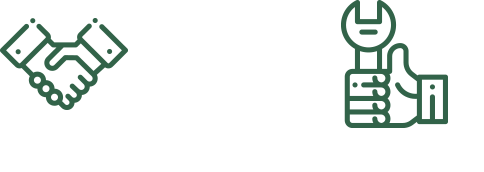
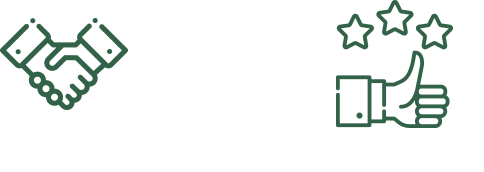
Cambios

Changed region(s): [[0.6818, 0.0, 0.9607, 0.7558]]

diff --git a/style.less b/style.less
@@ -276,7 +276,7 @@ div.center{
 #mision {
     .flex {
     
-    min-height: 500px;
+    min-height: 640px;
     align-items: center;
     li{
         padding-right: 70px;
@@ -295,9 +295,22 @@ div.center{
 }
 
 #mision .fondo {
-    background: url(./img/home/afiliate.jpg) no-repeat center top;
+    background: url(./img/home/afiliate.jpg) no-repeat center;
     background-size: cover;
     min-height: 650px;
+}
+
+#vision{
+    min-height: 640px;
+    
+    img#sello{
+        padding-top: 22px;
+        padding-left: 18px;
+    }
+    
+    .pad-top{
+        padding-top: 100px;
+    }
 }
 
 #vision .flex {
@@ -319,7 +332,7 @@ div.center{
     float: left;
     padding-left: 50px;
     li{
-        line-height: 240%;
+        line-height: 120%;
         padding: 0;
         
     }
@@ -374,7 +387,7 @@ div.center{
     min-height: 500px;
     #miss-veg{
         background: url(./img/home/miss-veggies.png) no-repeat center;
-        background-size: 89%;
+        background-size: cover;
         width: 40%;
     }
     .columna{
@@ -996,7 +1009,7 @@ div.center{
 }
 
 #vision .flex {
-    min-height: 300px;
+    min-height: 400px;
     align-items: center;
     li{
         //padding-left: 50px;
@@ -1021,7 +1034,10 @@ div.center{
     }
 }
 
-
+    #vision{
+        min-height: 800px;
+    }
+    
 #vision .fondo {
     background: url(./img/home/birrete.jpg) no-repeat center top;
     background-size: cover;

diff --git a/style.css b/style.css
@@ -211,7 +211,7 @@ div.center {
   display: block;
 }
 #mision .flex {
-  min-height: 500px;
+  min-height: 640px;
   align-items: center;
 }
 #mision .flex li {
@@ -227,9 +227,19 @@ div.center {
   color: #9c9aa0;
 }
 #mision .fondo {
-  background: url(img/home/afiliate.jpg) no-repeat center top;
+  background: url(img/home/afiliate.jpg) no-repeat center;
   background-size: cover;
   min-height: 650px;
+}
+#vision {
+  min-height: 640px;
+}
+#vision img#sello {
+  padding-top: 22px;
+  padding-left: 18px;
+}
+#vision .pad-top {
+  padding-top: 100px;
 }
 #vision .flex {
   min-height: 500px;
@@ -241,7 +251,7 @@ div.center {
   padding-left: 50px;
 }
 #vision .contenido li {
-  line-height: 240%;
+  line-height: 120%;
   padding: 0;
 }
 #vision .contenido ul {
@@ -289,7 +299,7 @@ div.center {
 }
 #descuento #miss-veg {
   background: url(img/home/miss-veggies.png) no-repeat center;
-  background-size: 89%;
+  background-size: cover;
   width: 40%;
 }
 #descuento .columna {
@@ -773,7 +783,7 @@ div.center {
     min-height: 200px;
   }
   #vision .flex {
-    min-height: 300px;
+    min-height: 400px;
     align-items: center;
   }
   #vision .contenido {
@@ -787,6 +797,9 @@ div.center {
   }
   #vision .contenido ul {
     padding-bottom: 10px;
+  }
+  #vision {
+    min-height: 800px;
   }
   #vision .fondo {
     background: url(img/home/birrete.jpg) no-repeat center top;

diff --git a/templates/quienes-somos.php b/templates/quienes-somos.php
@@ -16,8 +16,9 @@
                         <p>Somos la Asociación de Health Coaches Unidos de México (AHCUM),  acreditamos y reúnimos a los profesionales de esta área con el objetivo de  comunicar con claridad las actividades y funciones de un health coach y su relación de apoyo con otras áreas: Médicos, Nutriólogos,  Psicólogos,  entre otros.</p>
                         <p>
                         Constituida como  ORG en enero de 2018,  la AHCUM pretende ampliar el alcance, reconocimiento y  awareness (conciencia)  de la profesión, para brindar a sus asociados mejores oportunidades laborales y finalmente inspirar el cambio de hábitos de estilo de vida de los mexicanos. </p>
-                        <p>Somos un grupo de entrenadores de IIN Health entusiastas, comprometidos y profesionales que persiguen <b>un sueño común</b>:</p>
-                        <p class="blue">"Ayudar a las personas a transformar sus vidas, inspirar cambios y expandir la conciencia"</p>
+                        
+                        <p>Somos un grupo de coaches de salud integral de INN Health entusiastas, comprometidos y profesionales que persiguen <b>un sueño común</b>:</p>
+                        <p class="blue">"Ayudar a las personas a transformar sus vidas, inspirar cambio de hábitos y expandir la conciencia"</p>
                         
                     </div>
                 </div>
@@ -30,7 +31,7 @@
                     <div class="columna">
                        <div class="contenido">
                           <h2>Misión</h2>
-                        <p>Inspirar y contribuir a un México más saludable y feliz. Nuestra comunidad de Coaches de Salud se compromete a elevar el bienestar general de los mexicanos mediante el fomento de cambios en los hábitos de vida. También nos dedicamos a apoyar el desarrollo profesional de los asociados y trabajar en el posicionamiento de la práctica del Coaching de Salud como un elemento clave para mantener una salud integral.</p>
+                        <p>Inspirar y contribuir a un México más saludable y feliz. Nuestra comunidad de Health Coaches se compromete a elevar el bienestar general de los mexicanos mediante el fomento de cambios en los hábitos de vida. También nos dedicamos a apoyar el desarrollo profesional de los asociados y trabajar en el posicionamiento de la práctica del Coaching de Salud como un elemento clave para mantener una salud integral.</p>
                         
                         <h2>Visión</h2>
                         <p>Ser la principal comunidad de Health coaches en México responsable de acreditar la buena práctica del Coaching de Salud, logrando así el reconocimiento de la sociedad y los profesionales de la salud como aliados en materia de prevención y bienestar en nuestro país.</p>

diff --git a/templates/home.php b/templates/home.php
@@ -19,7 +19,7 @@
                         siguientes beneficios:</h2>
                         <ul>
                             <li>
-                                Recibirás tu distintivo oficial de miembro avalado en su calidad de práctica.
+                                Recibirás tu distintivo oficial de miembro avalado en su calidad de práctica, el cual podrás publicarlo en tus redes sociales y sitio web.
                             </li>
                             <li>
                                 Tendrás un perfil en el directorio de Health Coaches avalados y podrás publicar los enlaces de tus redes sociales.
@@ -53,13 +53,19 @@
                           <h2>Requisitos para<br>
                             afiliarte:</h2>
                         <ul>
-                            <li>Ser graduado de INN </li>
-                            <li>Certificado de Health Coach</li>
+                            <li>Ser Health Coach Certificado por INN </li>
                             <li>Validar tu certificado</li>
+                            <li>Tener activo tu badge INN</li>
+                            <img id="sello" src="<?php echo get_stylesheet_directory_uri(); ?>/img/home/int-nut-validar.png" alt="Integrative nutrition">
+                            
                         </ul>
                         
                         <a href="#" class="btn-purple">¿CÓMO VALIDAR?</a>
+                        
+                        <p class="pad-top">Asociación avalada por INN</p>
+                        <a href="https://www.integrativenutrition.com/"><img src="<?php echo get_stylesheet_directory_uri(); ?>/img/home/IIN-logo-red.png" alt="Institute for integrative nutrition"></a>
                        </div>
+                        
                                            
                     </div>
                     
